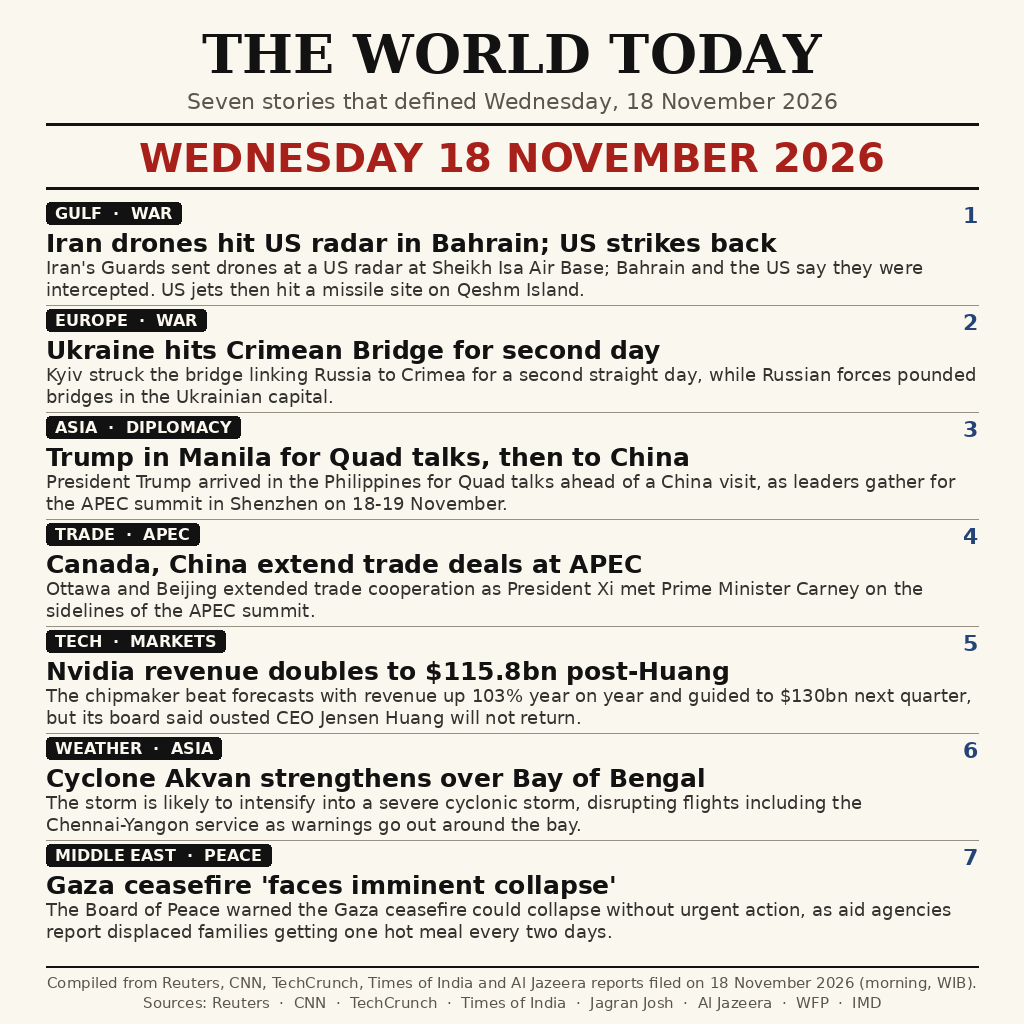
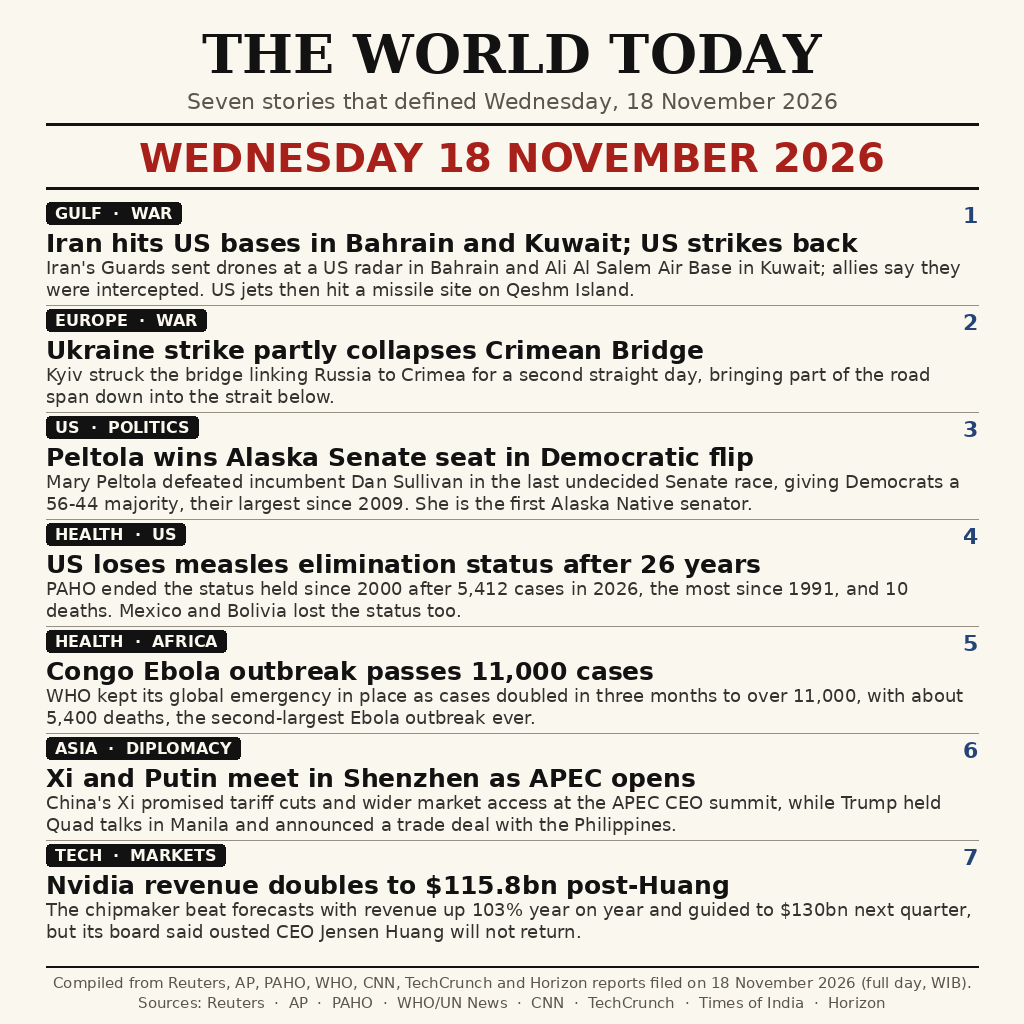
Refresh 18 Nov stories: Peltola Senate win, measles status lost, Ebola milestone

Changed region(s): [[0.0312, 0.2188, 0.9375, 1.0], [0.5938, 0.3125, 0.9375, 0.375]]

diff --git a/generate_image.py b/generate_image.py
@@ -143,8 +143,8 @@ def main():
     d.text((W // 2, footer_top + 8), data["footer"], font=f_foot,
            fill=MUTED, anchor="ma")
     d.text((W // 2, footer_top + 28),
-           "Sources: Reuters  ·  CNN  ·  TechCrunch  ·  Times of India  ·  "
-           "Jagran Josh  ·  Al Jazeera  ·  WFP  ·  IMD",
+           "Sources: Reuters  ·  AP  ·  PAHO  ·  WHO/UN News  ·  CNN  ·  "
+           "TechCrunch  ·  Times of India  ·  Horizon",
            font=f_foot, fill=MUTED, anchor="ma")
 
     out = os.path.join(HERE, "entry.png")
